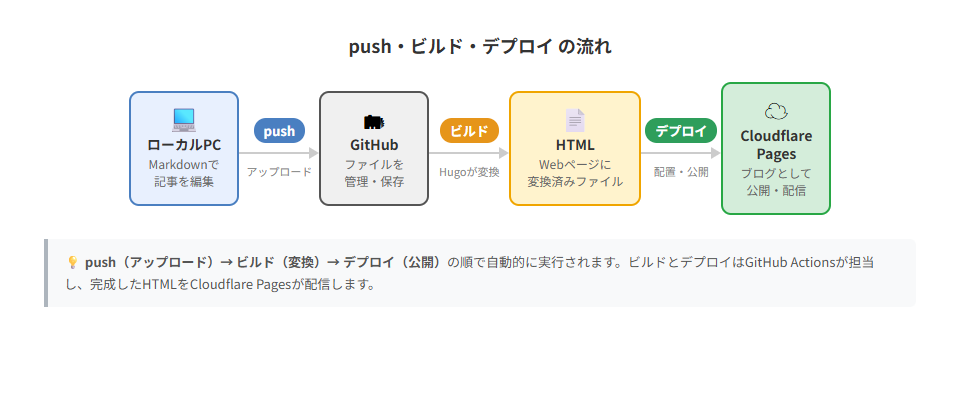
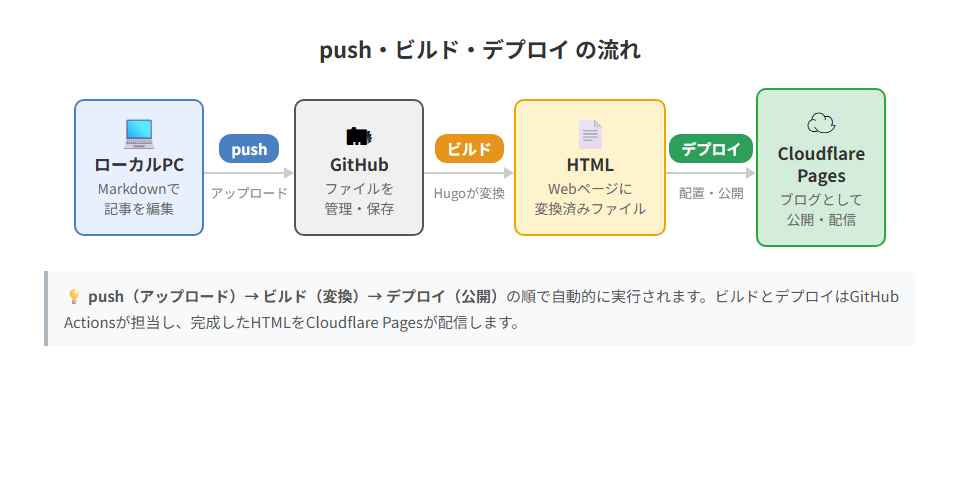
enlarge text in build-deploy-flow diagram for readability

Changed region(s): [[0.0625, 0.1857, 0.9375, 0.5262], [0.0625, 0.5881, 0.9375, 0.7119], [0.3125, 0.0619, 0.6875, 0.1548]]

diff --git a/tmp-diagram/build-deploy-flow-diagram.html b/tmp-diagram/build-deploy-flow-diagram.html
@@ -14,7 +14,7 @@
 
   .title {
     text-align: center;
-    font-size: 18px;
+    font-size: 22px;
     font-weight: bold;
     color: #333;
     margin-bottom: 24px;
@@ -38,25 +38,25 @@
 
   .node-box {
     border-radius: 10px;
-    padding: 14px 16px;
+    padding: 16px 18px;
     text-align: center;
-    min-width: 110px;
+    min-width: 130px;
   }
   .node-icon {
-    font-size: 24px;
+    font-size: 30px;
     line-height: 1;
-    margin-bottom: 4px;
+    margin-bottom: 6px;
   }
   .node-name {
-    font-size: 14px;
+    font-size: 17px;
     font-weight: bold;
     color: #333;
     line-height: 1.3;
   }
   .node-sub {
-    font-size: 12px;
+    font-size: 14px;
     color: #666;
-    margin-top: 3px;
+    margin-top: 4px;
     line-height: 1.4;
   }
 
@@ -70,17 +70,17 @@
     display: flex;
     flex-direction: column;
     align-items: center;
-    width: 80px;
+    width: 90px;
     flex-shrink: 0;
     gap: 4px;
   }
   .arrow-term {
-    font-size: 13px;
+    font-size: 15px;
     font-weight: bold;
     color: #fff;
     background: #555;
     border-radius: 12px;
-    padding: 3px 10px;
+    padding: 4px 12px;
     white-space: nowrap;
   }
   .arrow-term.push   { background: #4a7fc1; }
@@ -103,7 +103,7 @@
     border-left: 10px solid #ccc;
   }
   .arrow-desc {
-    font-size: 11px;
+    font-size: 13px;
     color: #888;
     text-align: center;
     white-space: nowrap;
@@ -112,7 +112,7 @@
   /* ===== 注記 ===== */
   .note {
     margin-top: 24px;
-    font-size: 13px;
+    font-size: 15px;
     color: #555;
     background: #f8f9fa;
     border-left: 4px solid #adb5bd;
